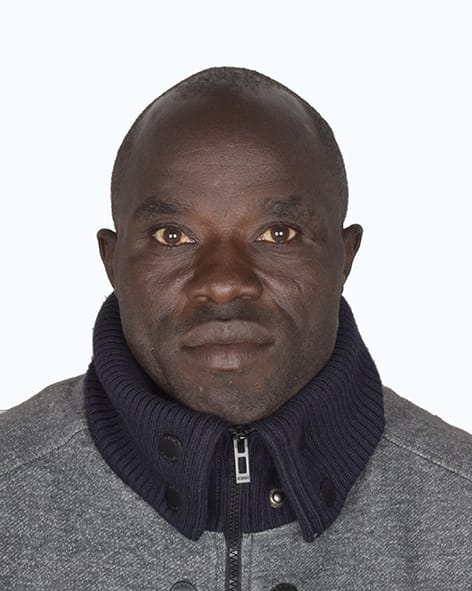
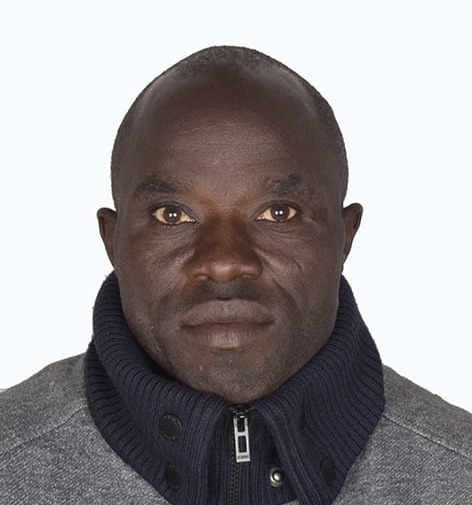
team management section updated

diff --git a/src/pages/About.tsx b/src/pages/About.tsx
@@ -13,6 +13,8 @@ import trainingImage from "@/assets/digital-training.jpeg";
 import orgStructure from "@/assets/org-structure.png";
 import teamLuat from "@/assets/team-luat.jpeg";
 import teamsaleh from "@/assets/img/kumi-saleh.jpg";
+import teamawien from "@/assets/img/awien.jpg";
+import teamabuk from "@/assets/img/abuk.jpg";
 import teamSantino from "@/assets/team-Santino.jpeg";
 import teamMaker from "@/assets/team-maker.jpeg";
 import teamAkuok from "@/assets/akuok-image.jpeg";
@@ -89,21 +91,29 @@ const managementTeam = [
     name: "Santino Geng",
     role: "Chief Executive Officer",
     image: teamSantino,
+    description:
+      "Sets the strategic direction for ATV, leading partnerships with schools and community organizations while championing equitable access to education for refugee youth.",
   },
   {
     name: "Kumi Saleh",
     role: "Program Lead",
     image: teamsaleh,
+    description:
+      "Designs and oversees ATV's education and empowerment programs, translating community needs into structured workshops and initiatives with measurable impact.",
   },
   {
-    name: "Maker Panom Chuol",
+    name: "Mabeck Abuk Lueath",
     role: "General Secretary",
-    image: teamMaker,
+    image: teamabuk,
+    description:
+      "Manages organizational records, correspondence, and internal coordination, ensuring ATV's operations run smoothly and stay aligned with its mission.",
   },
   {
-    name: "Aluong Deng Dau",
-    role: "Director",
-    image: teamAluong,
+    name: "Awien Dau Kolnyang",
+    role: "Director of Communications",
+    image: teamawien,
+    description:
+      "Shapes ATV's public voice, telling the stories of refugee youth through outreach, media, and digital platforms to build visibility and support.",
   },
 ];
 
@@ -361,7 +371,7 @@ const About = () => {
           </motion.div>
 
           {/* Founders Grid */}
-          <div className="grid sm:grid-cols-2 lg:grid-cols-5 gap-6 mb-20">
+          <div className="flex flex-wrap justify-center gap-10 mb-20">
             {founders.map((founder, index) => (
               <motion.div
                 key={founder.name}
@@ -369,9 +379,9 @@ const About = () => {
                 whileInView={{ opacity: 1, y: 0 }}
                 viewport={{ once: true }}
                 transition={{ duration: 0.5, delay: index * 0.1 }}
-                className="bg-card rounded-xl overflow-hidden shadow-lg text-center"
+                className="bg-card rounded-xl overflow-hidden shadow-lg text-center w-full sm:w-80"
               >
-                <div className="h-48 bg-muted overflow-hidden">
+                <div className="h-56 bg-muted overflow-hidden">
                   {founder.image ? (
                     <img
                       src={founder.image}
@@ -387,7 +397,7 @@ const About = () => {
                   )}
                 </div>
                 <div className="p-5">
-                  <h4 className="font-heading font-semibold text-foreground mb-1">
+                  <h4 className="font-heading text-lg font-semibold text-foreground mb-1">
                     {founder.name}
                   </h4>
                   <p className="text-sm text-primary font-medium mb-1">
@@ -403,7 +413,7 @@ const About = () => {
 
           {/* Board of Directors */}
           <SectionHeader label="Leadership" title="Board of Directors" />
-          <div className="grid sm:grid-cols-2 lg:grid-cols-3 gap-10 px-4 lg:px-0 max-w-5xl mx-auto">
+          <div className="flex flex-wrap justify-center gap-6 sm:gap-10 px-4 lg:px-0 overflow-x-auto">
             {boardMembers.map((member, index) => (
               <motion.div
                 key={member.name}
@@ -411,9 +421,9 @@ const About = () => {
                 whileInView={{ opacity: 1, y: 0 }}
                 viewport={{ once: true }}
                 transition={{ duration: 0.5, delay: index * 0.1 }}
-                className="bg-card rounded-xl overflow-hidden shadow-lg text-center"
+                className="bg-card rounded-xl overflow-hidden shadow-lg text-center flex-shrink-0 w-64 sm:w-72 lg:w-80"
               >
-                <div className="h-60 bg-muted overflow-hidden">
+                <div className="h-48 sm:h-52 lg:h-56 bg-muted overflow-hidden">
                   <img
                     src={member.image}
                     alt={member.name}
@@ -452,7 +462,7 @@ const About = () => {
                 proud of the commitment and passion they bring to this mission.
               </p>
             </motion.div>
-            <div className="grid sm:grid-cols-2 lg:grid-cols-4 gap-8 max-w-5xl mx-auto">
+            <div className="grid sm:grid-cols-2 lg:grid-cols-3 gap-8 max-w-5xl mx-auto">
               {managementTeam.map((member, index) => (
                 <motion.div
                   key={member.name}
@@ -462,7 +472,8 @@ const About = () => {
                   transition={{ duration: 0.5, delay: index * 0.1 }}
                   className="bg-card rounded-xl overflow-hidden shadow-lg text-center group"
                 >
-                  <div className="h-56 bg-muted overflow-hidden">
+                  {/* Image + sliding description panel */}
+                  <div className="relative h-61 bg-muted overflow-hidden">
                     {member.image ? (
                       <img
                         src={member.image}
@@ -476,7 +487,21 @@ const About = () => {
                         </span>
                       </div>
                     )}
+
+                    {/* Slide-up description overlay */}
+                    <div
+                      className="absolute inset-0 bg-primary/95 backdrop-blur-sm
+                     flex items-center justify-center p-6
+                     translate-y-full group-hover:translate-y-0
+                     transition-transform duration-500 ease-out"
+                    >
+                      <p className="text-primary-foreground text-sm leading-relaxed">
+                        {member.description}
+                      </p>
+                    </div>
                   </div>
+
+                  {/* Static footer, stays visible below the image */}
                   <div className="p-5">
                     <h4 className="font-heading font-semibold text-foreground mb-1">
                       {member.name}
